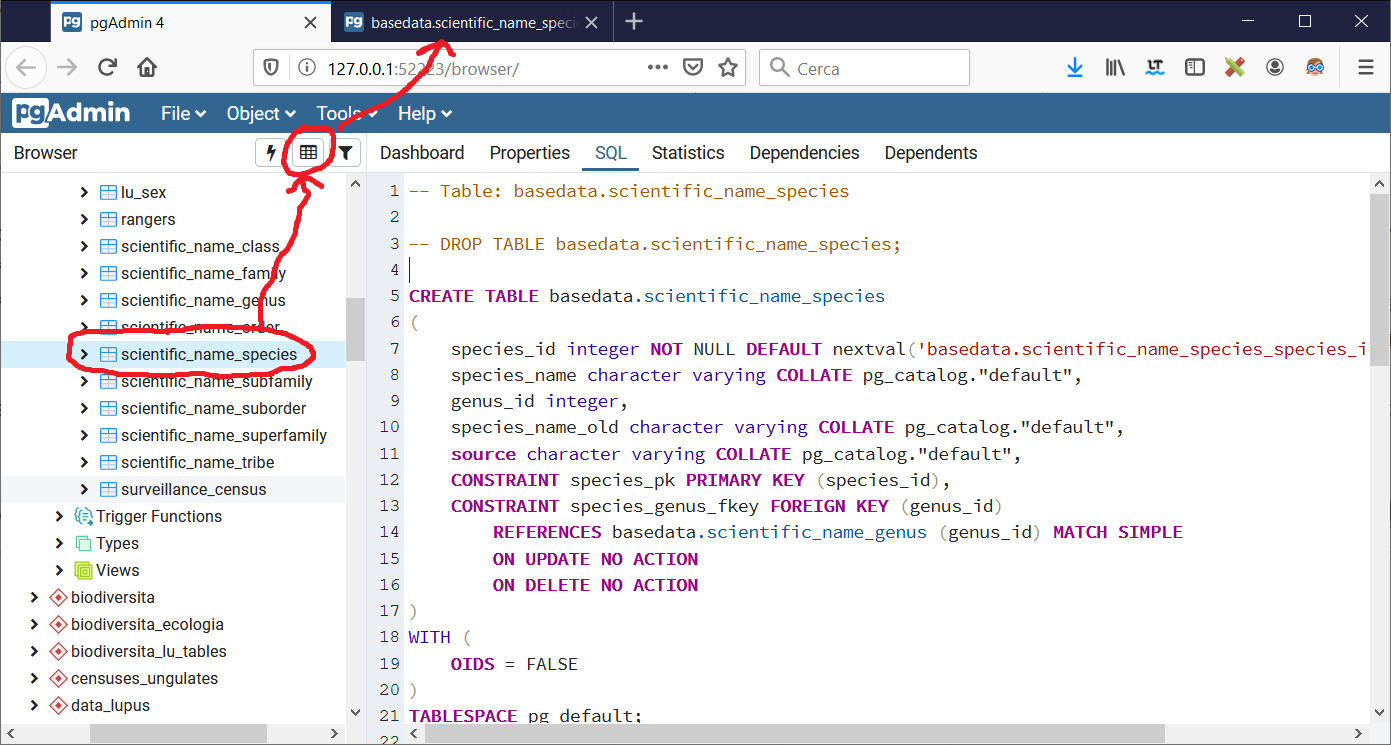
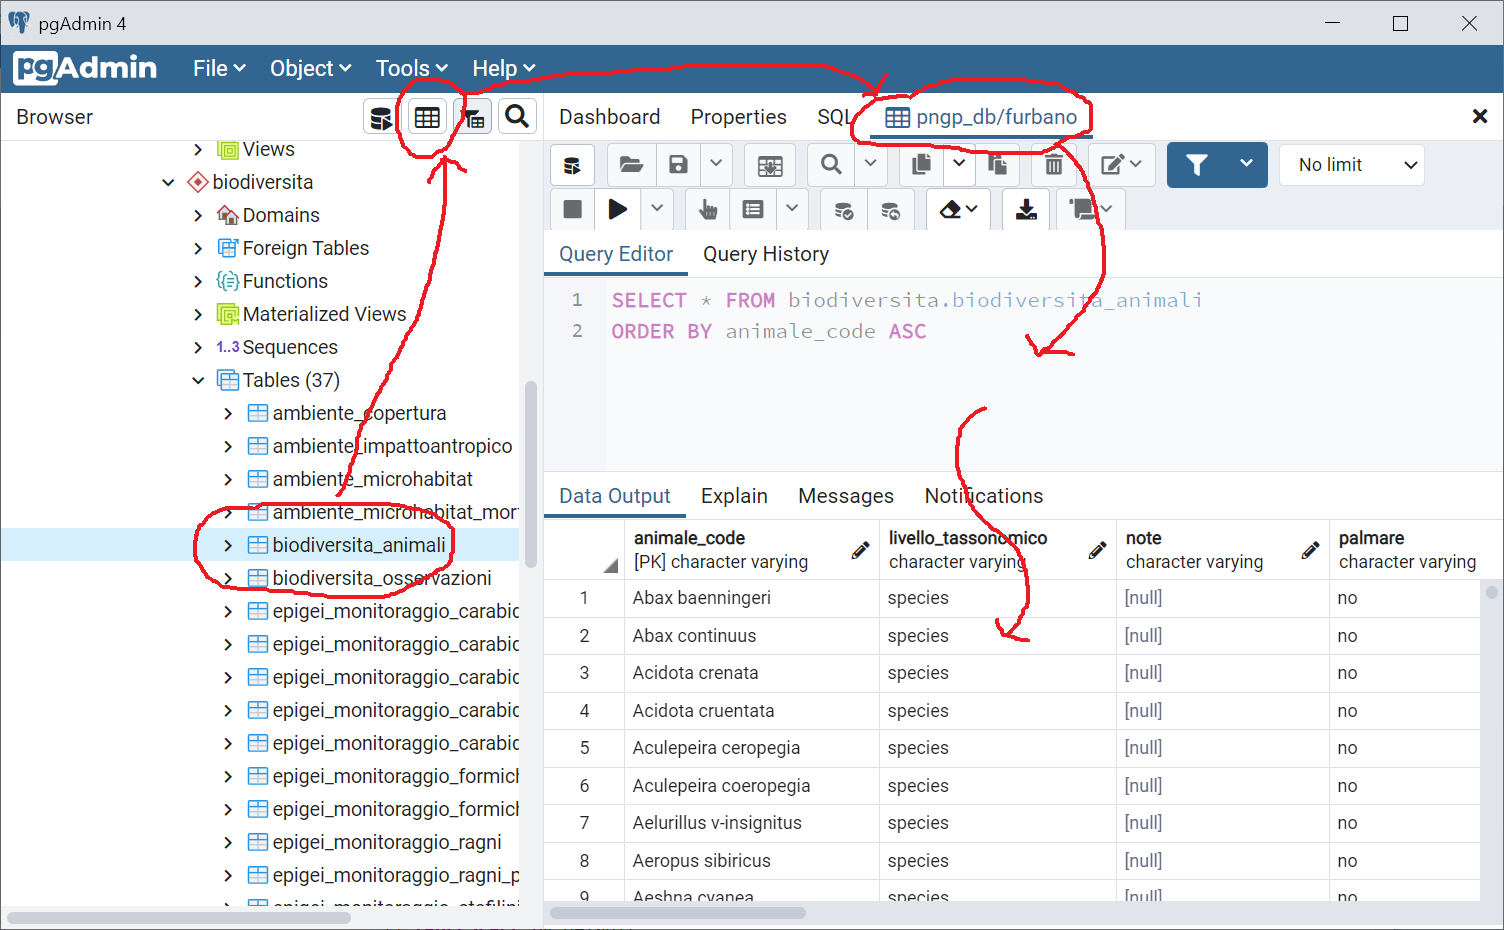
Materiale

diff --git a/lezioni/lezione_03.md b/lezioni/lezione_03.md
@@ -163,36 +163,40 @@ Per ogni livello esiste un "gruppo" a cui vengono associati i permessi. Poi ogni
 ### Interagire con una tabella
 In questa sezione, viene mostrato come visualizzare una tabella nell'interfaccia grafica, ordinare e selezionare i dati, modificare i valori dei campi, inserire un nuovo record, cancellare un record. In seguito viene spiegato come esportare i dati. Alla fine viene mostrato come visualizzare i dati geografici, aprire una view e creare una tabella via interfaccia grafica.  
 
-
-
-È possibile aggiungere criteri (icona a forma di imbuto) per ordinare i record e/o limitare la selezione a un sottoinsieme di record (nei criteri di selezione si possono usare [sub-queries](http://www.postgresqltutorial.com/postgresql-subquery/), cosa a volte utile se si vogliono vedere record in base a criteri impostati anche su altre tabelle).  
-
-[![](images/client_pgadmin4_table2.png)](https://github.com/feurbano/pngp_db/blob/master/images/client_pgadmin4_table2.png?raw=true)
-
-Se si selezionano delle righe, è possibile copiare/incollare i record come valori separati da virgola. Da questa interfaccia è anche possibile modificare manualmente i dati.  
-
-[![](images/client_pgadmin4_table3.png)](https://github.com/feurbano/pngp_db/blob/master/images/client_pgadmin4_table3.png?raw=true)
-
-Per visualizzare i dati usando una query SQL, aprite un pannello SQL (nella pagina principale, menù TOOLS). Si aprirà una nuova finestra dove potrete scrivere il vostro codice SQL. Per vedere i dati , cliccare l'icona a forma di fulmine: i dati verranno visualizzati nel pannello inferiore (secondo i criteri impostati nella query). Per esportare tutti i dati, invece della selezione con copia incolla vista prima, si può scaricare tutto il dataset cliccando sull'icona con la freccia verso il basso (vedi figura). I dati verranno salvati in un file .csv.  
-
 [![](images/client_pgadmin4_sql.png)](https://github.com/feurbano/pngp_db/blob/master/images/client_pgadmin4_sql.png?raw=true)
 #### Visualizzare i dati di una tabella
-Per visualizzare i dati di una tabella, bisogna selezionarla nel menù ad albero nel pannello di sinistra e poi fare click sull'icona a forma di tabella nel menù degli strumenti in alto (vedi immagine sotto). Lo stesso risultato si può ottenere cliccando col pulsante destro sulla tabella nel menù ad albero. Si aprirà una nuova finestra nel browser.  
+Per visualizzare i dati di una tabella, bisogna selezionarla nel menù ad albero nel pannello di sinistra e poi fare click sull'icona a forma di tabella nel menù degli strumenti in alto (vedi immagine sotto). Lo stesso risultato si può ottenere cliccando col pulsante destro sulla tabella nel menù ad albero. Nella lista dei tab verrà aggiunto un nuovo elemento che fa visualizzare nel pannello a destra (contenuto delle schede) diviso in due parti: nella sezione superiore c'è il codice SQL che PgAdmin usa per richiedere i dati al server, nella sezione inferiore c'è la tabella con i dati. In questo caso non è possibile modificare il codice SQL. Vedremo come usare direttamente il linguaggio SQL nelle lezioni del secondo modulo.  
 
-[![](materiale/l03_client_pgadmin4_table1.png)](https://github.com/feurbano/corsoparchi/blob/main/lezioni/materiale/l03_client_pgadmin4_table1.png?raw=true)
+[![](materiale/l03_client_pgadmin4_table1.png)](https://github.com/feurbano/corsoparchi/blob/main/lezioni/materiale/l03_client_pgadmin4_table1.png?raw=true)  
 
+La tabella a questo punto è disponibile e i dati possono essere letti, modificati, aggiunti, rimossi come se fosse un foglio di calcolo (e poi, se necessario, esportati come file csv).
 
 #### Ordinare e selezionare i dati
 
-#### Modificare i valore di un campo
+È possibile aggiungere criteri (icona a forma di imbuto nella barra degli strumenti, di fianco a quello per aprire la tabella) per ordinare i record e/o limitare la selezione a un sottoinsieme di record (nei criteri di selezione si possono usare [sub-queries](http://www.postgresqltutorial.com/postgresql-subquery/), cosa a volte utile se si vogliono vedere record in base a criteri impostati anche su altre tabelle). I criteri vengono definiti secondo la sintassi del linguaggio SQL che vedremo insieme. nell'esempio riportato qui sotto, i dati vengono ordinati per il campo *species_id* e i record limitati alle specie che iniziano con "Ad".
 
-#### Cancellare un record
+[![](images/client_pgadmin4_table2.png)](https://github.com/feurbano/pngp_db/blob/master/images/client_pgadmin4_table2.png?raw=true)
+
+
+#### Modificare, cancellare e aggiungere un record
+Per modificare il valore di un campo bisogna fare un doppio click sulla cella: si aprirà una piccola finestra dove potrà essere inserito il nuovo valore. Per eleminare un record, bisogna selezionare tutta la riga e poi cliccare sull'icona a forma di pattumiera nella barra sotto il pannello delle schede. Per aggiungere un record, bisogna andare alla fine della tabella e inserire i valori nell'ultima riga (che è vuota). I cambiamenti apportati sono evidenziati con carattere in grassetto (e con una riga rossa sui record eliminati). Le modifiche però non sono ancora applicate alla tabella. Per renderli definitivi, vanno confermati con l'icona a forma di freccia sovrapposta alla tabella (nel menu che appare sotto le schede quando viene aperta una tabella, vedi figura sotto).
+
+[![](images/client_pgadmin4_table3.png)](https://github.com/feurbano/pngp_db/blob/master/images/client_pgadmin4_table3.png?raw=true)
 
 #### Esportare i dati di una tabella
 
+Se si vuole esportare alcune righe, si possono selezionare e poi copiare/incollare i record come valori separati da virgola (si può modificare il formato di esportazione nelle proprietà, come visto all'inizio della lezione).  
+Per esportare tutti i dati, si possono selezionare tutti i dati (cliccando nell'angolo in alto a sinistra della tabella, come nei fogli di calcolo) e poi usando copia/incolla, oppure si può usare l'icona con la freccia verso il basso: [![](images/client_pgadmin4_table4.png)](https://github.com/feurbano/pngp_db/blob/master/images/client_pgadmin4_table4.png?raw=true). I dati verranno salvati in un file .csv.  
+
 #### Visualizzare i dati spaziali
+Come vedremo in una lezione successiva, nel database possono essere archiviati gli attributi spaziali di un oggetto (ad esempio posizione puntuale, linea o poligono) come fossero normali attributi, quindi contenuti in un campo della tabella.  
+Il tool migliore per visualizzare i dati spaziali è QGIS, ma anche PgAdmin offre l'opportunità per vedere i dati spaziali in una interfaccia molto semplificata. Quando viene aperta una tabella, di fianco al nome con il campo geometrico c'è una piccola icona a forma di occhio. Cliccandoci sopra i dati verranno visualizzati come mappa. Se i dati sono in longitudine/latitudine, viene aggiunta di default la mappa di opensteetmap come sfondo (vedi immagini sotto).  
+[![](images/client_pgadmin4_table5.png)](https://github.com/feurbano/pngp_db/blob/master/images/client_pgadmin4_table5.png?raw=true)  
+
+[![](images/client_pgadmin4_table6.png)](https://github.com/feurbano/pngp_db/blob/master/images/client_pgadmin4_table6.png?raw=true)
 
 #### Visualizzare una view
+Per visualizzare una view, il procedimento è identico a quello usato per una tabella. Selezionare la view desiderata e procedere come illustrato sopra per la visualizzazione e lo scaricamento dei dati (non è invece possibile modificare i dati).
 
 #### Creare una tabella via interfaccia grafica
 
@@ -263,7 +267,7 @@ Ad esempio è possibile usare MS ACCESS per creare maschere di inserimento dati,
 Un'ottima alternativa gratuita a pgAdmin4 (che in effetti non è intuitivo come il suo predecessore pgAdmin3) è [DBeaver](https://dbeaver.io/). Esistono moltissimi altri progetti open source di interfacce generiche ai database (incluso PostgreSQL) e tutte hanno gli strumenti necessari a rendere utilizzare il database da parte degli operatori e collaboratori del Parco.
 
 ### Esercizio riassuntivo
-
+*Collegarsi al database **corsoparchi**, accedere alla tabella basedata.scientific_name_species, visualizzarla, ordinarla per nome scientifico in ordine decrescente e scaricare i dati in formato csv.* 
 
 ---
 [**Lezione 4.**](https://github.com/feurbano/corsoparchi/blob/master/lezioni/lezione_04.md) Comandi SQL base - [<ins>[**Link pagina web**](https://feurbano.github.io/corsoparchi/lezioni/lezione_04.html)</ins>]

diff --git a/README.md b/README.md
@@ -26,7 +26,7 @@ MODULO 4 - Martedì 30/3/2021 09:00-13:00
 Ferdinando Urbano
 
 ### Piattaforma di videoconferenza
-Da definire  
+CISCO WebEx del Parco Nazionale del Gran Paradiso (il link verrà inviato via email)  
 
 ### Utenti
 Coordinatori tecnici, tecnici faunistici, esperti informatici e potenziali curatori dei dati dei Parchi; consulenti e collaboratori dei Parchi per la raccolta e la gestione dei dati.  
@@ -54,4 +54,4 @@ Il corso è strutturato in 4 moduli con obiettivi distinti, suddivisi in 10 lezi
 Il materiale del corso (presentazioni, lezioni, esercizi) è disponibile in questo sito. Nelle 4 mezze giornate di corso il materiale verrà presentato e spiegato, rimanendo poi a disposizione di tutti per approfondirne lo studio. Se possibile, le lezioni online verranno registrate e condivise. Ulteriore materiale di approfondimento sui database, PostgreSQL e la gestione dei dati può facilmente essere reperito online (libri, tutorial, corsi sia gratuiti sia a pagamento).  
 
 ### Requisiti
-Conoscenze di base degli strumenti informatici, familiarità con fogli di calcolo e con dataset ecologici. Per svolgere gli esercizi è necessario un computer con connessione a Internet, la possibilità di installare PgAdmin4 e accesso al Database Biodiversità condiviso dei Parchi o al database del proprio Parco.  
+Conoscenze di base degli strumenti informatici, familiarità con fogli di calcolo e con dataset ecologici. Per svolgere gli esercizi è necessario un computer con connessione a Internet (può essere sub-ottimo utilizzare un tablet durante gli esercizi di SQL), la possibilità di installare PgAdmin4 (<ins>[**Download PgAdmin for WINDOWS**](https://www.pgadmin.org/download/pgadmin-4-windows/)</ins>, * <ins>[**Download PgAdmin for MAC**](https://www.pgadmin.org/download/pgadmin-4-macos/)</ins>. versione consigliata: PgAdmin4 v5.0) e possibilità di accedere al Database Biodiversità condiviso dei Parchi o al database del proprio Parco (in caso di reti aziendali, il firewall può impedire l'accesso a database esterni).  
